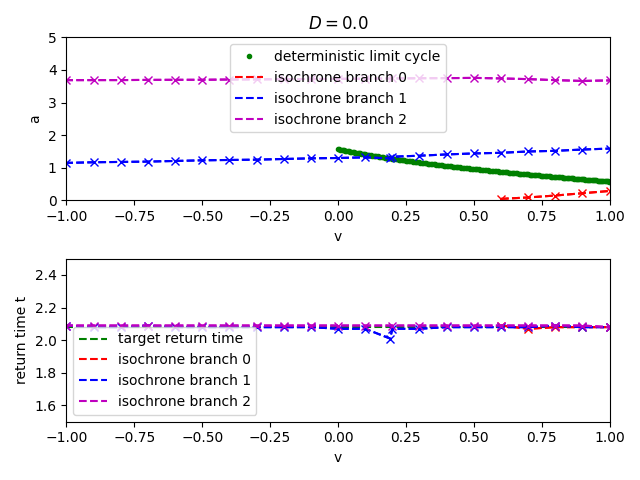
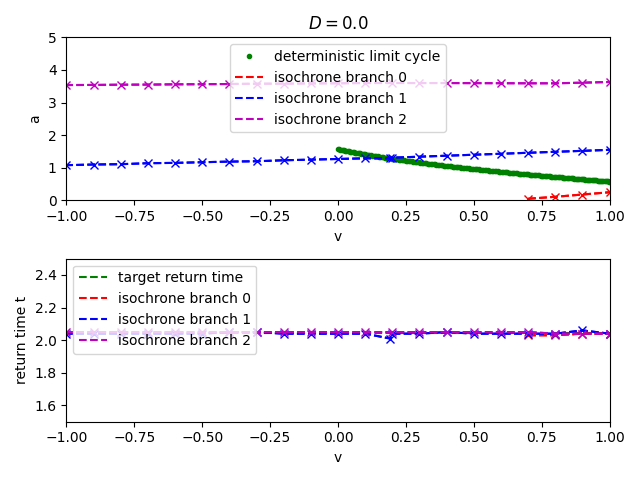
more pictures

diff --git a/mrt_phase_numeric/src/Isochrone/Isochrone.py b/mrt_phase_numeric/src/Isochrone/Isochrone.py
@@ -204,7 +204,7 @@ class IsochroneBaseClass:
                         _plot(curve, color_scheme[l], label=f'isochrone branch {l}')
                 else:
                     _plot(self.curve)
-                plt.plot(point[0], point[1], 'x')
+                plt.plot(point[0], point[1], 'rx')
                 plt.xlabel('v')
                 plt.ylabel('a')
                 plt.legend()
@@ -616,10 +616,21 @@ class IsochroneTimeSeries(IsochroneSingleBranchBaseClass):
         for indice in indices:
             if self.debug_mode:
                 plt.clf()
+                # if hasattr(self, "curves"):
+                #     _plot_(self.curves)
+                # else:
+                #     _plot(self.curve)
                 if hasattr(self, "curves"):
-                    _plot_(self.curves)
+                    color_scheme = ['r', 'b', 'm']
+                    for l, curve in enumerate(self.curves):
+                        _plot(curve, color_scheme[l], label=f'isochrone branch {l}')
                 else:
                     _plot(self.curve)
+                plt.plot(_point[0], _point[1], 'rx')
+                plt.xlabel('v')
+                plt.ylabel('a')
+                plt.legend()
+
             t = self.get_time_until_line_crossing(_curve, indice)
             if t is not None:
                 t_list.append(t)

diff --git a/mrt_phase_pde/pde/own_method/plot_T_N/plot_T_N.py b/mrt_phase_pde/pde/own_method/plot_T_N/plot_T_N.py
@@ -44,12 +44,14 @@ if __name__ == '__main__':
         f'$T_{{{N}}}(v,a)$ via simulation, $D={D}$')
         # f'\n $v_{{thr}}={v_th}$, $\\mu={mu}$, $\\tau_a={tau_a}$, $\\Delta_a={Delta_a}$')
 
-    plt.savefig(f'..\\img\\comparision_to_numerics_T_N_{N}_D_{D}_from_simulation.png')
+    # plt.savefig(f'..\\img\\comparision_to_numerics_T_N_{N}_D_{D}_from_simulation.png')
 
-    det_file_paths = '../../../../mrt_phase_numeric/data/results/isochrones/from_timeseries_grid/deterministic/D_0.0'
+    det_file_paths = '..\\..\\..\\..\\mrt_phase_numeric\\data\\results\\isochrones\\from_timeseries_grid\\deterministic\\D_0.0'
     stochastic = f'..\\..\\..\\mrt_phase_numeric\\data\\results\\isochrones\\from_timeseries\\stochastic\\D_{D}'
 
-    # isochrones = load_isochrones(det_file_paths)
-    # isochrones = load_isochrones(stochastic)
-    # plot_isochrones(isochrones, plt, 'g--')
+    if D == 0.0:
+        isochrones = load_isochrones(det_file_paths)
+    else:
+        isochrones = load_isochrones(stochastic)
+    plot_isochrones(isochrones, plt, 'g--')
     plt.xlim([-1,1])

diff --git a/mrt_phase_numeric/isochrones/get_isochrones/get_multiple_isochrones.py b/mrt_phase_numeric/isochrones/get_isochrones/get_multiple_isochrones.py
@@ -6,8 +6,8 @@ from mrt_phase_numeric.src.Isochrone.isochrone_util import get_isochrone
 from mrt_phase_numeric.src.Isochrone.InitHelper import IsochroneInitHelper
 from mrt_phase_numeric.src.DataTypes.DataTypes import DataTypes
 
-DEBUG_MODE = True
-# DEBUG_MODE = False
+# DEBUG_MODE = True
+DEBUG_MODE = False
 
 # TYPE = DataTypes.TIMESERIES_TYPE
 TYPE = DataTypes.TIMESERIES_GRID_TYPE
@@ -31,7 +31,7 @@ isochrone_init_helper = None
 error = 1
 
 # phi_inits = [0.2, 0.3, 0.4, 0.5]
-phi_inits = [0.0]
+phi_inits = [0.3, 0.4, 0.5]
     #0.1, 0.2, 0.3, 0.4, 0.5, 0.6, 0.7, 0.8, 0.9]
 # phi_inits = [0.2]
 phi_init_index = 0

diff --git a/mrt_phase_numeric/src/Isochrone/isochrone_util.py b/mrt_phase_numeric/src/Isochrone/isochrone_util.py
@@ -12,6 +12,7 @@ def get_isochrone(isochrone: IsochroneBaseClass, phi: float = None, _save: bool 
             if isochrone.n_updates >= max_n_iterations or isochrone.has_reached_early_stopping():
                 print('max n iterations reached')
                 print(f'{phi}')
+                break
 
         isochrone.update_isochrone_single_iteration()
 

diff --git a/mrt_phase_numeric/isochrones/get_isochrones/timeseries_grid_config.py b/mrt_phase_numeric/isochrones/get_isochrones/timeseries_grid_config.py
@@ -23,7 +23,7 @@ isochrone_config = {
 }
 
 init_config = {
-    'init_type': InitTypes.INIT_FROM_OBJECT, # 'from_scratch',
+    'init_type': InitTypes.INIT_FROM_SCRATCH, # 'from_scratch',
     # 'init_type': INIT_FROM_OBJECT,
     'data_type': DataTypes.TIMESERIES_GRID_TYPE,
     'multiple_branches': True,

diff --git a/mrt_phase_numeric/isochrones/plot_isochrones/plot_mutliple_branches_examples.py b/mrt_phase_numeric/isochrones/plot_isochrones/plot_mutliple_branches_examples.py
@@ -12,7 +12,7 @@ v_th = equation_config['v_th']
 tau_a = equation_config['tau_a']
 delta_a = equation_config['delta_a']
 
-phi = 0.6
+phi = 0.0
 D = 0.0
 
 
